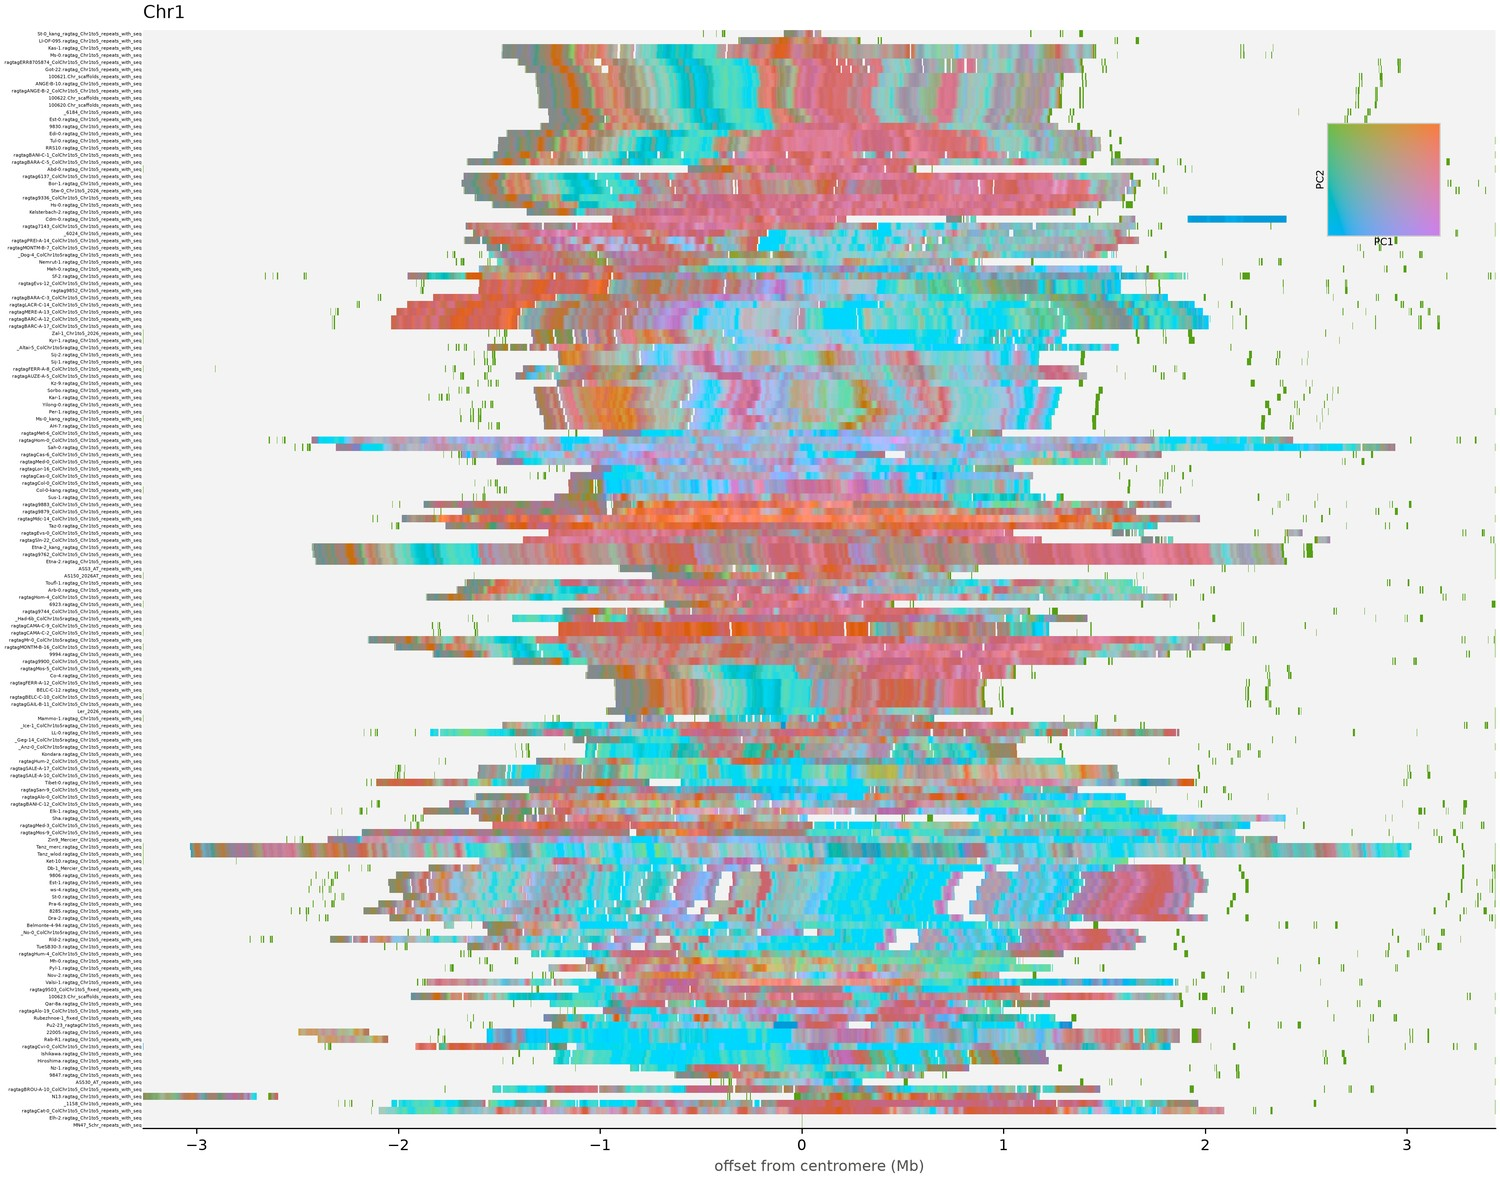
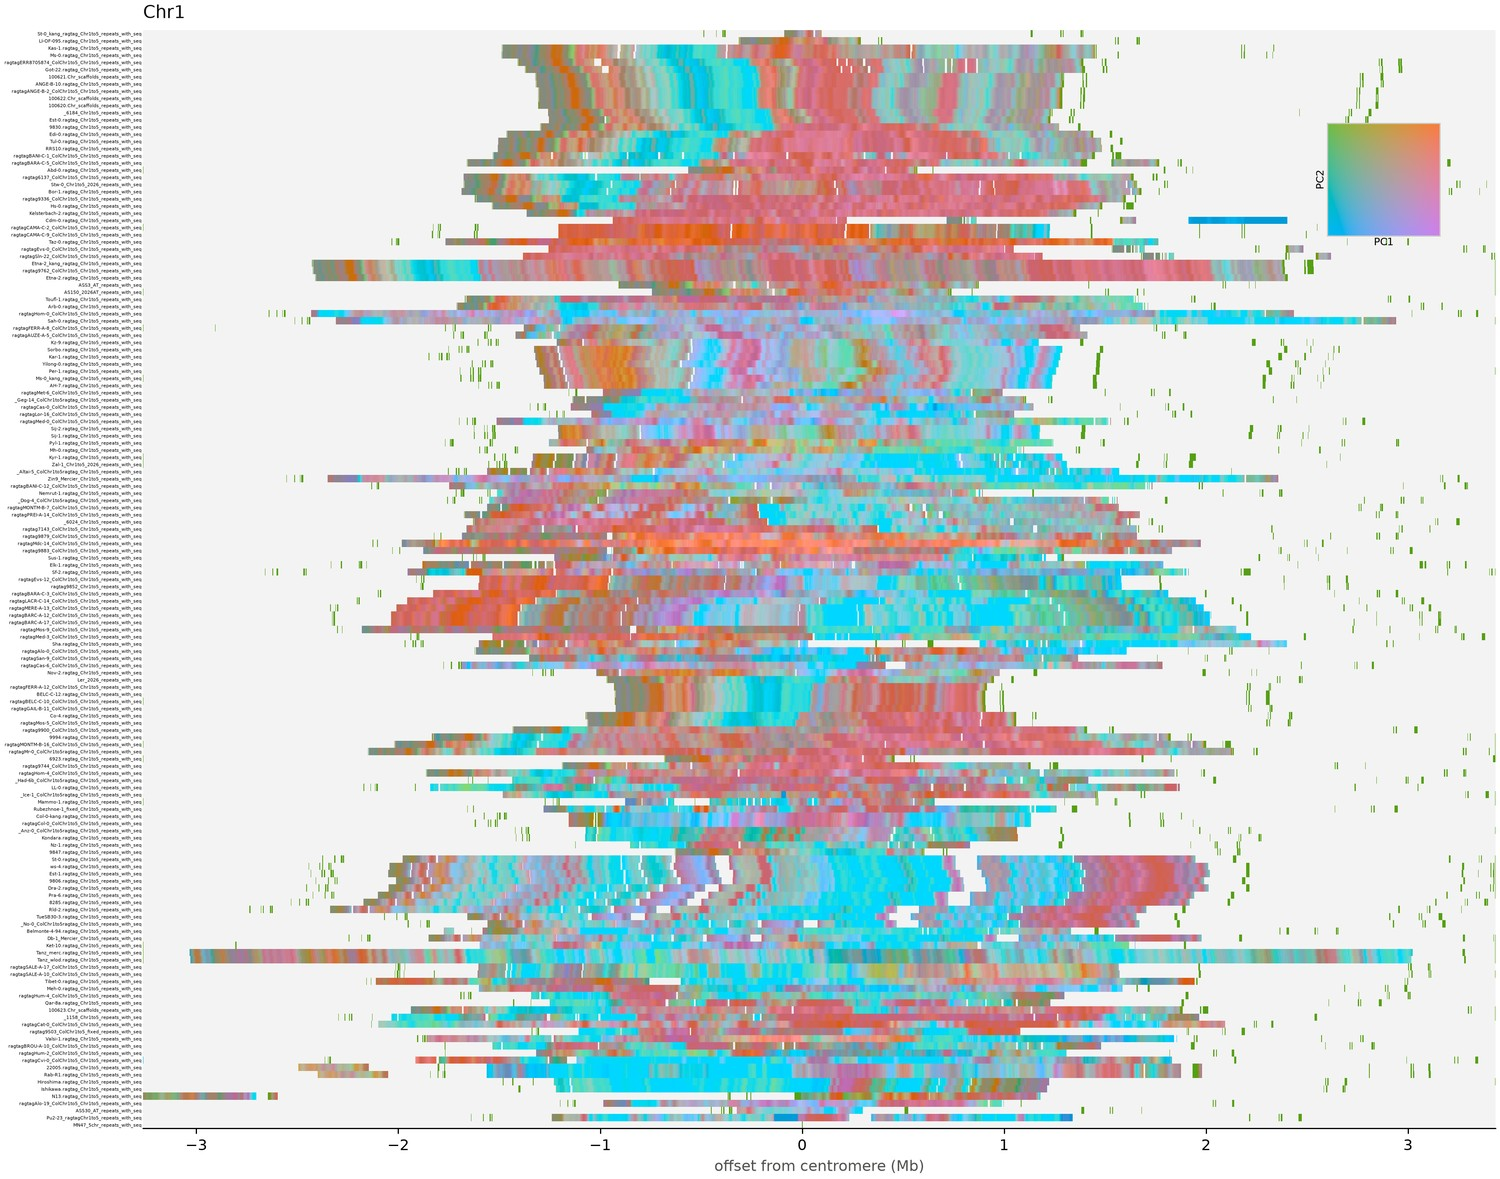
Regenerate the example figure with rephasing
The committed example predated rephasing, so its colours carried the
per-array phase offset rather than composition. Replaced with the same
figure from a current run.

Adds --reference, so two runs can share one reference monomer and stay
comparable to each other; without it each run builds its own from its
largest array.

Claude-Session: https://claude.ai/code/session_01EthFQubKsptgGiyfStVzEe

diff --git a/README.md b/README.md
@@ -6,9 +6,10 @@ and draw one figure per chromosome with the assemblies stacked as rows.
 
 ![CEN178 arrays across 155 A. thaliana assemblies, chromosome 1](docs/example_Chr1.jpg)
 
-*Chromosome 1 of 155 A. thaliana pangenome assemblies: 12.3 million CEN178
-monomers, each row one assembly, centred on its own centromere, coloured by
-5-mer composition.*
+*Chromosome 1 of 154 A. thaliana pangenome assemblies: 12.3 million CEN178
+monomers, each row one assembly, centred on its own centromere, rephased onto a
+common frame, and coloured by 5-mer composition. Produced by a single
+`arrayscape` run over the TRASH annotations.*
 
 The embedding is fitted once over every monomer from every genome, which is the
 whole point — a colour then means the same thing in every row and every
